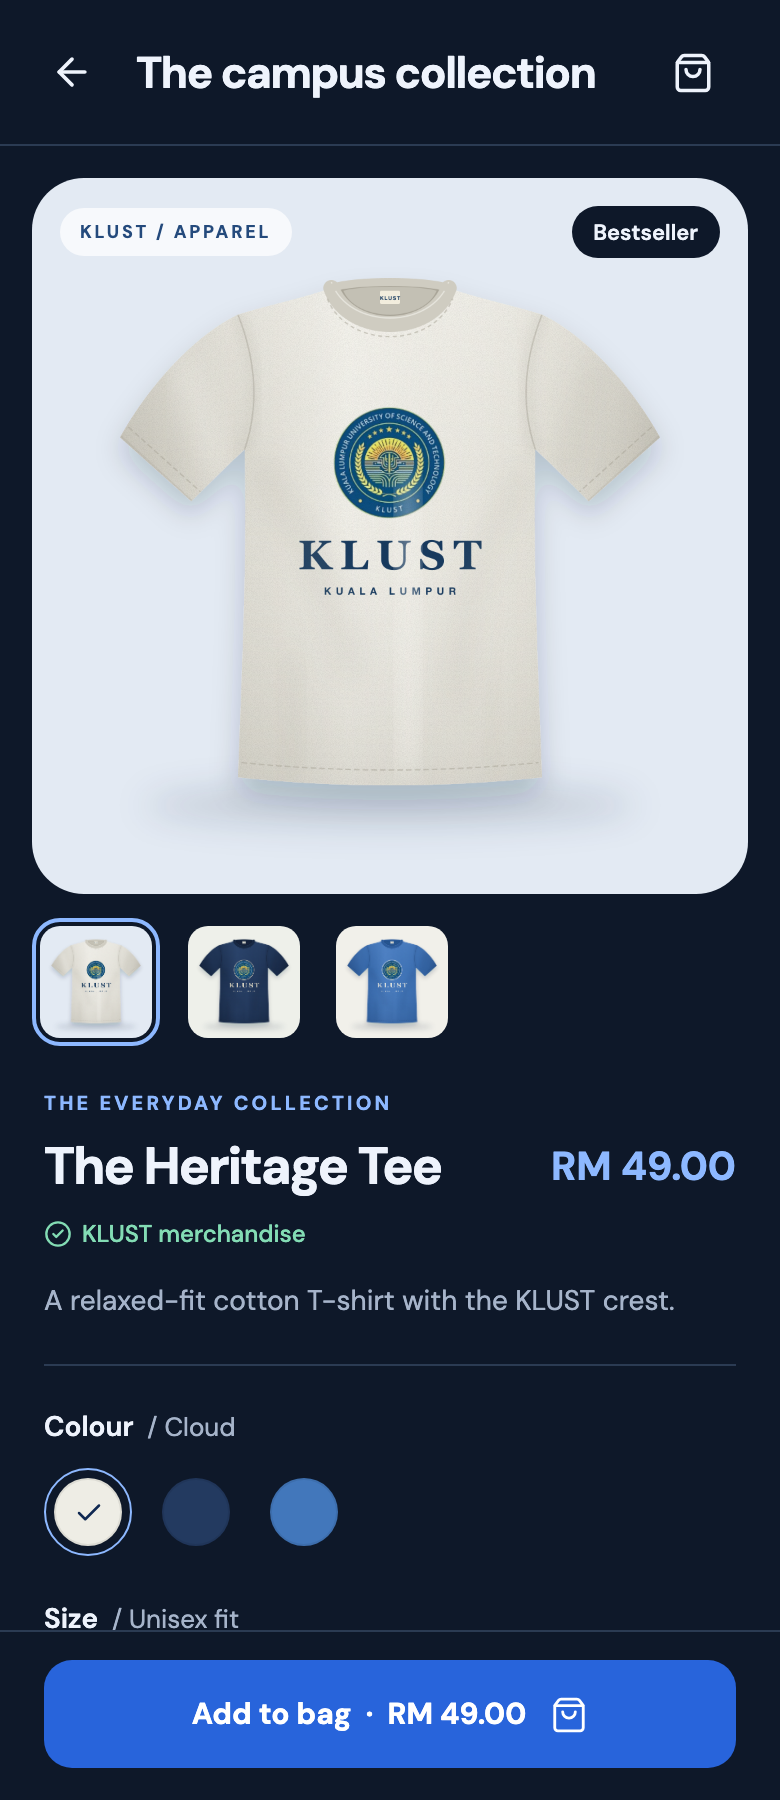
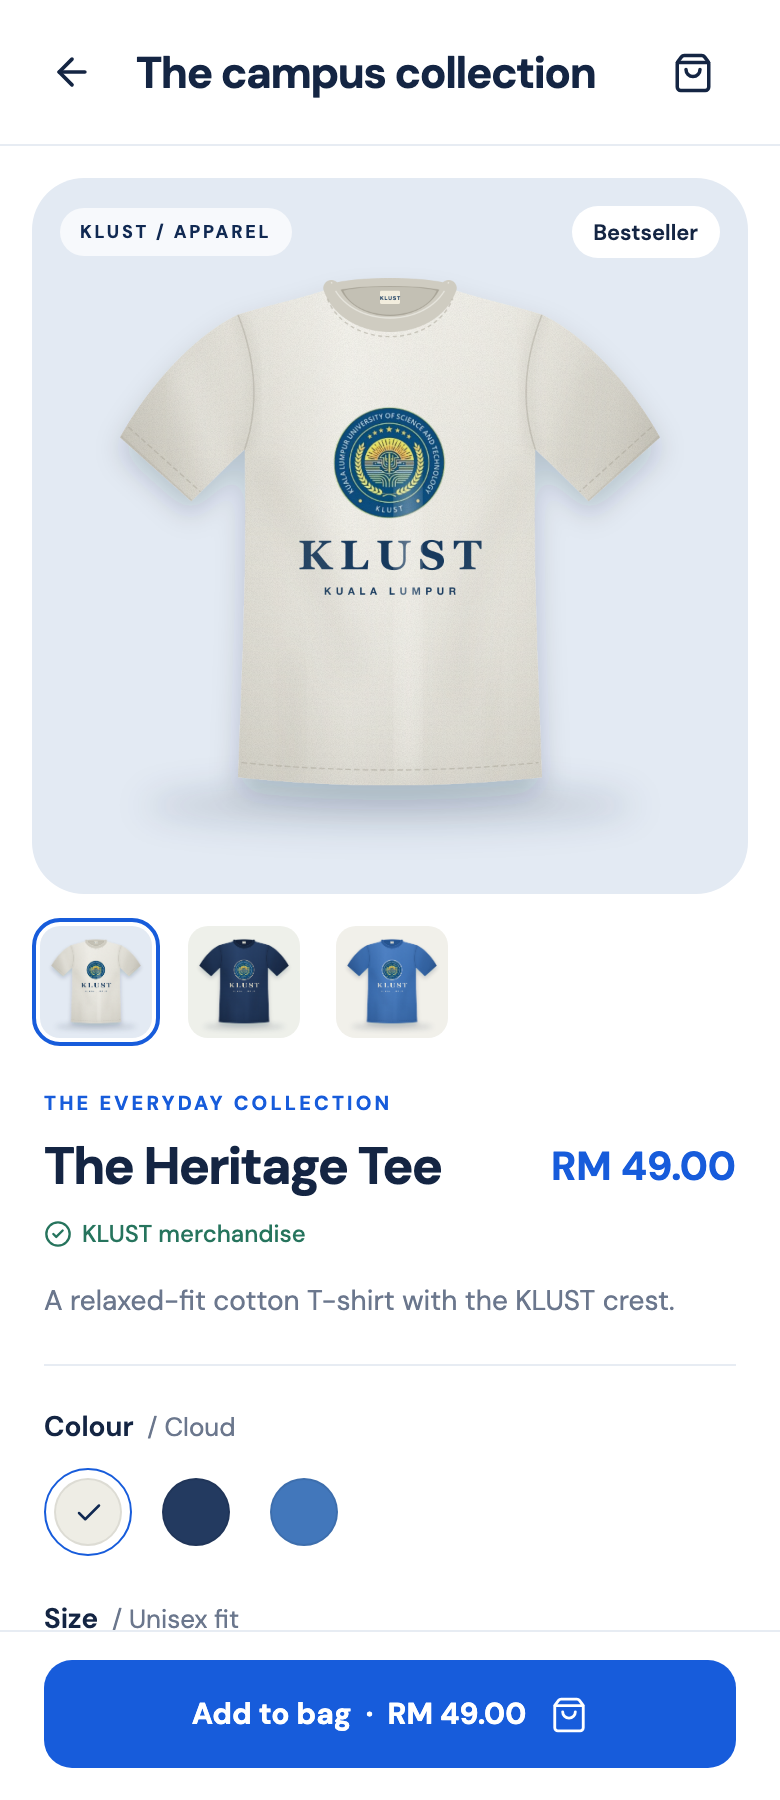
Restore light theme while retaining mobile sizing fixes

diff --git a/src/components/CollectionHero.tsx b/src/components/CollectionHero.tsx
@@ -30,7 +30,7 @@ export function CollectionHero({ onExplore }: { onExplore: () => void }) {
           style={({ pressed }) => [s.button, pressed && { opacity: 0.8 }]}
         >
           <Label style={s.buttonLabel}>Browse products</Label>
-          <ArrowRight size={17} color={c.white} strokeWidth={1.8} />
+          <ArrowRight size={17} color={c.navy} strokeWidth={1.8} />
         </Pressable>
         <Label style={s.note}>Guest checkout · Campus pickup</Label>
       </View>
@@ -39,7 +39,7 @@ export function CollectionHero({ onExplore }: { onExplore: () => void }) {
 }
 
 const s = StyleSheet.create({
-  hero: { borderRadius: 26, overflow: 'hidden', backgroundColor: c.background },
+  hero: { borderRadius: 26, overflow: 'hidden', backgroundColor: c.navy },
   artwork: {
     height: 254,
     backgroundColor: '#E3EDF8',
@@ -59,7 +59,7 @@ const s = StyleSheet.create({
     gap: 6,
     zIndex: 1,
   },
-  editionDot: { width: 6, height: 6, borderRadius: 3, backgroundColor: c.action },
+  editionDot: { width: 6, height: 6, borderRadius: 3, backgroundColor: c.blue },
   editionLabel: { fontFamily: fonts.bold, fontSize: 10, letterSpacing: 1.6, color: c.navy },
   halo: {
     position: 'absolute',
@@ -84,11 +84,11 @@ const s = StyleSheet.create({
     marginTop: 18,
     borderRadius: 14,
     paddingHorizontal: 18,
-    backgroundColor: c.action,
+    backgroundColor: c.white,
     flexDirection: 'row',
     justifyContent: 'space-between',
     alignItems: 'center',
   },
-  buttonLabel: { fontFamily: fonts.bold, fontSize: 14, color: c.white },
+  buttonLabel: { fontFamily: fonts.bold, fontSize: 14, color: c.navy },
   note: { fontSize: 11, color: '#AABFD9', textAlign: 'center', marginTop: 11 },
 });

diff --git a/src/navigation/AppNavigator.tsx b/src/navigation/AppNavigator.tsx
@@ -1,6 +1,6 @@
 import { ActivityIndicator, View } from 'react-native';
 import { useSafeAreaInsets } from 'react-native-safe-area-context';
-import { NavigationContainer, DarkTheme } from '@react-navigation/native';
+import { NavigationContainer, DefaultTheme } from '@react-navigation/native';
 import { createBottomTabNavigator } from '@react-navigation/bottom-tabs';
 import { createNativeStackNavigator } from '@react-navigation/native-stack';
 import { ClipboardList, ShoppingBag, Store } from 'lucide-react-native';
@@ -18,9 +18,9 @@ import type { RootStackParams, TabParams } from './types';
 const Tab = createBottomTabNavigator<TabParams>();
 const Stack = createNativeStackNavigator<RootStackParams>();
 const theme = {
-  ...DarkTheme,
+  ...DefaultTheme,
   colors: {
-    ...DarkTheme.colors,
+    ...DefaultTheme.colors,
     primary: c.blue,
     background: c.surface,
     card: c.surface,

diff --git a/src/theme/index.ts b/src/theme/index.ts
@@ -1,22 +1,22 @@
 export const colours = {
-  blue: '#8DB8FF',
-  action: '#2864DB',
-  navy: '#244A7C',
-  ink: '#EEF3FC',
-  muted: '#A6B4CA',
-  line: '#2B3B53',
-  background: '#162237',
-  surface: '#0E1829',
-  canvas: '#080F1B',
-  paleBlue: '#1B3152',
+  blue: '#175CDB',
+  action: '#175CDB',
+  surface: '#FFFFFF',
+  canvas: '#EAF0F8',
+  errorBackground: '#FFF9F9',
+  warningBackground: '#FFF2E3',
+  warningText: '#84461A',
+  navy: '#102952',
+  ink: '#142543',
+  muted: '#6B778D',
+  line: '#E7ECF3',
+  background: '#F6F8FB',
+  paleBlue: '#EAF1FE',
   white: '#FFFFFF',
-  green: '#83DCB4',
-  paleGreen: '#17392F',
-  red: '#FF9AA5',
-  errorBackground: '#371F2B',
-  warningBackground: '#382C1B',
-  warningText: '#F5D29A',
-  gold: '#E4C36C',
+  green: '#26745D',
+  paleGreen: '#ECF6F0',
+  red: '#BB3E48',
+  gold: '#C9A646',
 };
 
 export const fonts = {

diff --git a/public/index.html b/public/index.html
@@ -3,8 +3,8 @@
   <head>
     <meta charset="utf-8" />
     <meta name="viewport" content="width=device-width, initial-scale=1, viewport-fit=cover" />
-    <meta name="color-scheme" content="dark" />
-    <meta name="theme-color" content="#0E1829" />
+    <meta name="color-scheme" content="light" />
+    <meta name="theme-color" content="#FFFFFF" />
     <title>%WEB_TITLE%</title>
     <style id="expo-reset">
       html,
@@ -13,7 +13,7 @@
         height: 100%;
         margin: 0;
         padding: 0;
-        background: #080f1b;
+        background: #eaf0f8;
       }
       html {
         -webkit-text-size-adjust: 100%;
@@ -35,7 +35,7 @@
         font-size: 16px;
       }
       :focus-visible {
-        outline: 2px solid #8db8ff;
+        outline: 2px solid #175cdb;
         outline-offset: 3px;
       }
     </style>

diff --git a/src/screens/CheckoutScreen.tsx b/src/screens/CheckoutScreen.tsx
@@ -266,7 +266,7 @@ const s = StyleSheet.create({
   progressDone: {
     width: 21,
     height: 21,
-    backgroundColor: c.paleGreen,
+    backgroundColor: c.green,
     borderRadius: 11,
     justifyContent: 'center',
     alignItems: 'center',

diff --git a/App.tsx b/App.tsx
@@ -16,7 +16,7 @@ export default function App() {
   });
   return (
     <SafeAreaProvider>
-      <StatusBar style="light" />
+      <StatusBar style="dark" />
       <View style={s.canvas}>
         <View
           testID="store-app"

diff --git a/docs/VALIDATION.md b/docs/VALIDATION.md
@@ -9,9 +9,9 @@
 - Android and iOS Hermes exports and the web production export.
 - Three actual app screenshots: Shop, Product Details, and Checkout. All use the temporary product illustrations.
 
-## Dark theme and mobile sizing
+## Light theme and mobile sizing
 
-On 4 November 2026, eight additional mobile checks passed in Chromium and WebKit at 320, 390, 430, and 600 px. The app filled the viewport at 1× scale without horizontal overflow, including after focusing search and checkout inputs. All fields use 16 px text to avoid iOS focus zoom. Dark surfaces, readable foreground colours, and a light native status bar are applied across the app. These are browser emulation results; physical phones were not tested. Reproduce with `npm run verify:mobile` after installing both Playwright browsers.
+On 4 November 2026, eight additional mobile checks passed in Chromium and WebKit at 320, 390, 430, and 600 px. The app filled the viewport at 1× scale without horizontal overflow, including after focusing search and checkout inputs. All fields use 16 px text to avoid iOS focus zoom. Light surfaces, readable foreground colours, and a dark native status bar are applied across the app. These are browser emulation results; physical phones were not tested. Reproduce with `npm run verify:mobile` after installing both Playwright browsers.
 
 ## Added coverage
 

diff --git a/README.md b/README.md
@@ -14,7 +14,7 @@ A campus merchandise shopping demo built with **Expo, React Native, and TypeScri
 
 ## What you can try
 
-- Dark theme with blue accents, phone-width layouts, and inputs sized to avoid automatic mobile focus zoom.
+- Light theme with blue accents, phone-width layouts, and inputs sized to avoid automatic mobile focus zoom.
 - Search, category filtering, and featured or price sorting across **eight T-shirts and four mugs**.
 - Select **More · Coming soon** to preview upcoming campus favourites.
 - Choose matching product colour images, T-shirt sizes S–XXL, and quantities.
